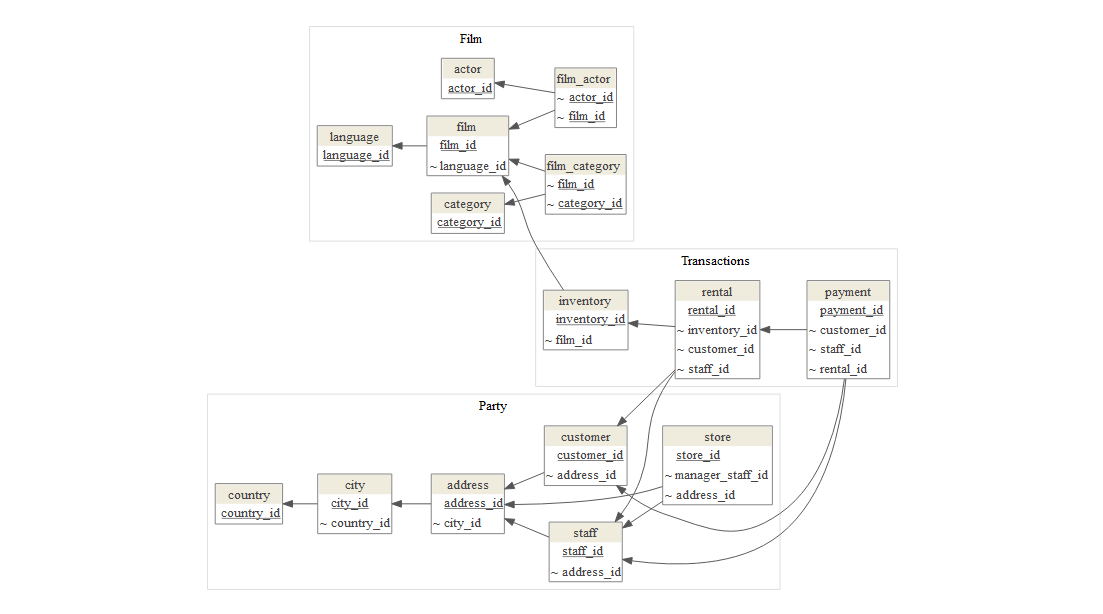
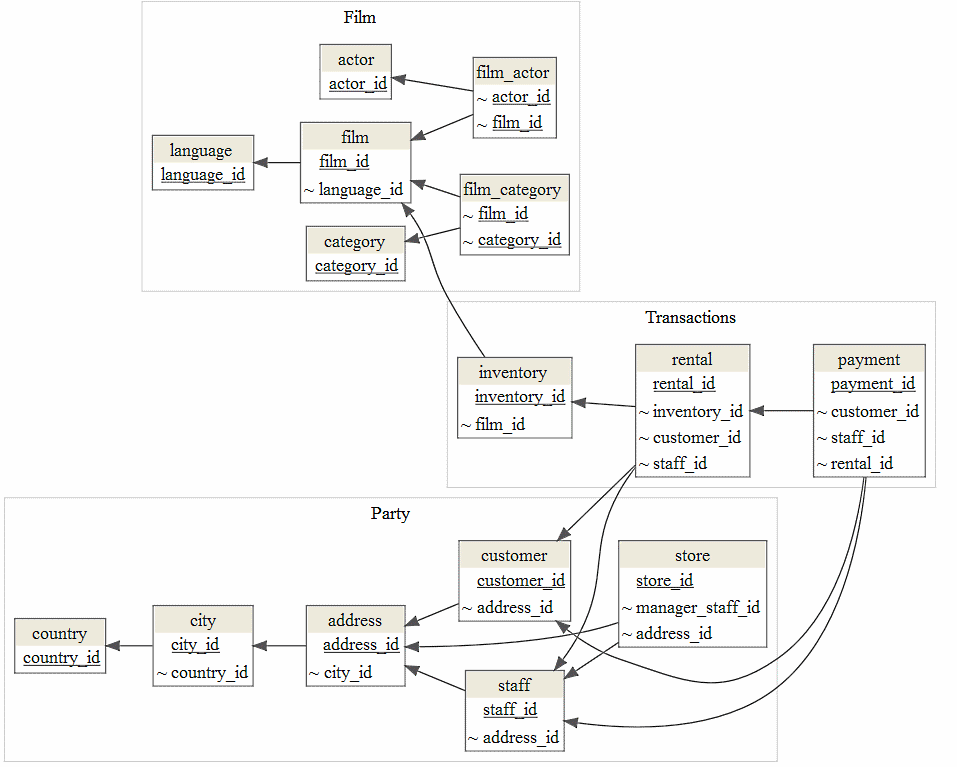
Readme
images

diff --git a/readme.md b/readme.md
@@ -1,7 +1,7 @@
 
 
 
-<img width="40%" align="right" src="img/sample.png" />
+<img width="50%" align="right" src="img/sample.png" />
 
 # datamodelr
 Data model diagrams with [DiagrammeR](https://cran.r-project.org/package=DiagrammeR)
@@ -166,7 +166,8 @@ dm_render_graph(graph)
 ![](img/dvdrental_small.png)
 
 ### Reduce Detail
-To emphasize the table relations use `view_type = "keys_only"`:
+To emphasize the table relations and hide the "non-key"" 
+columns use `view_type = "keys_only"`:
 
 
 ```r
